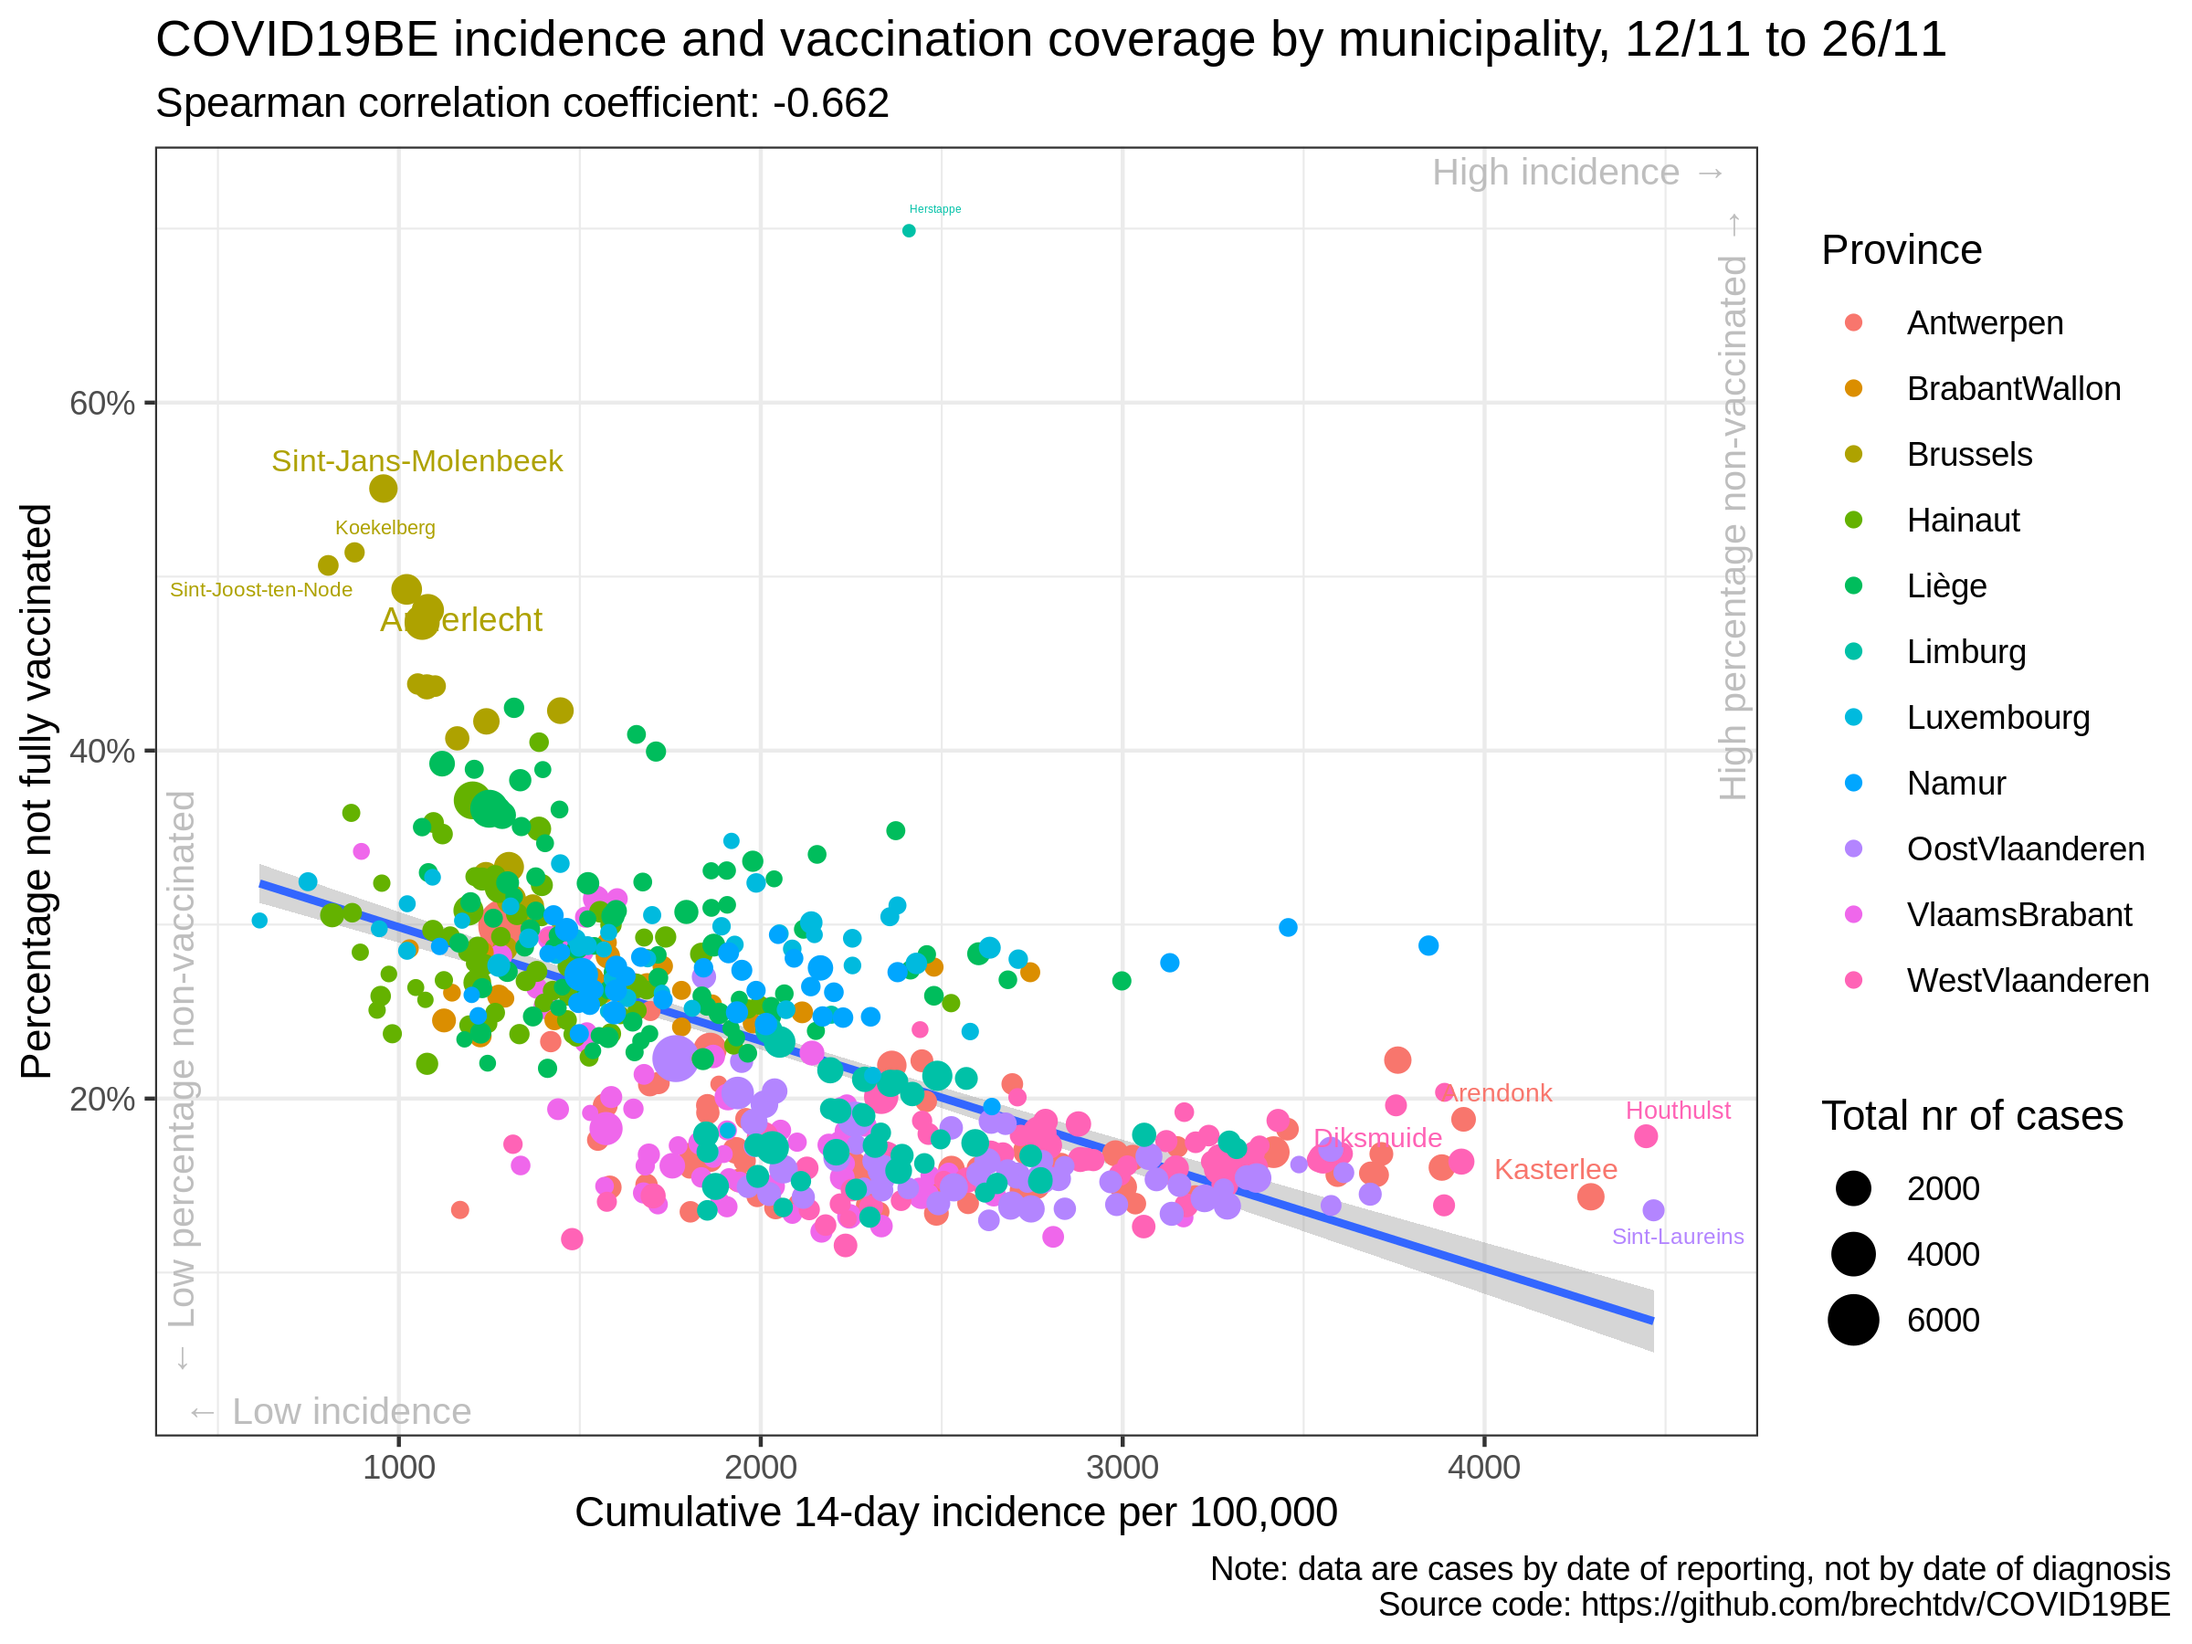
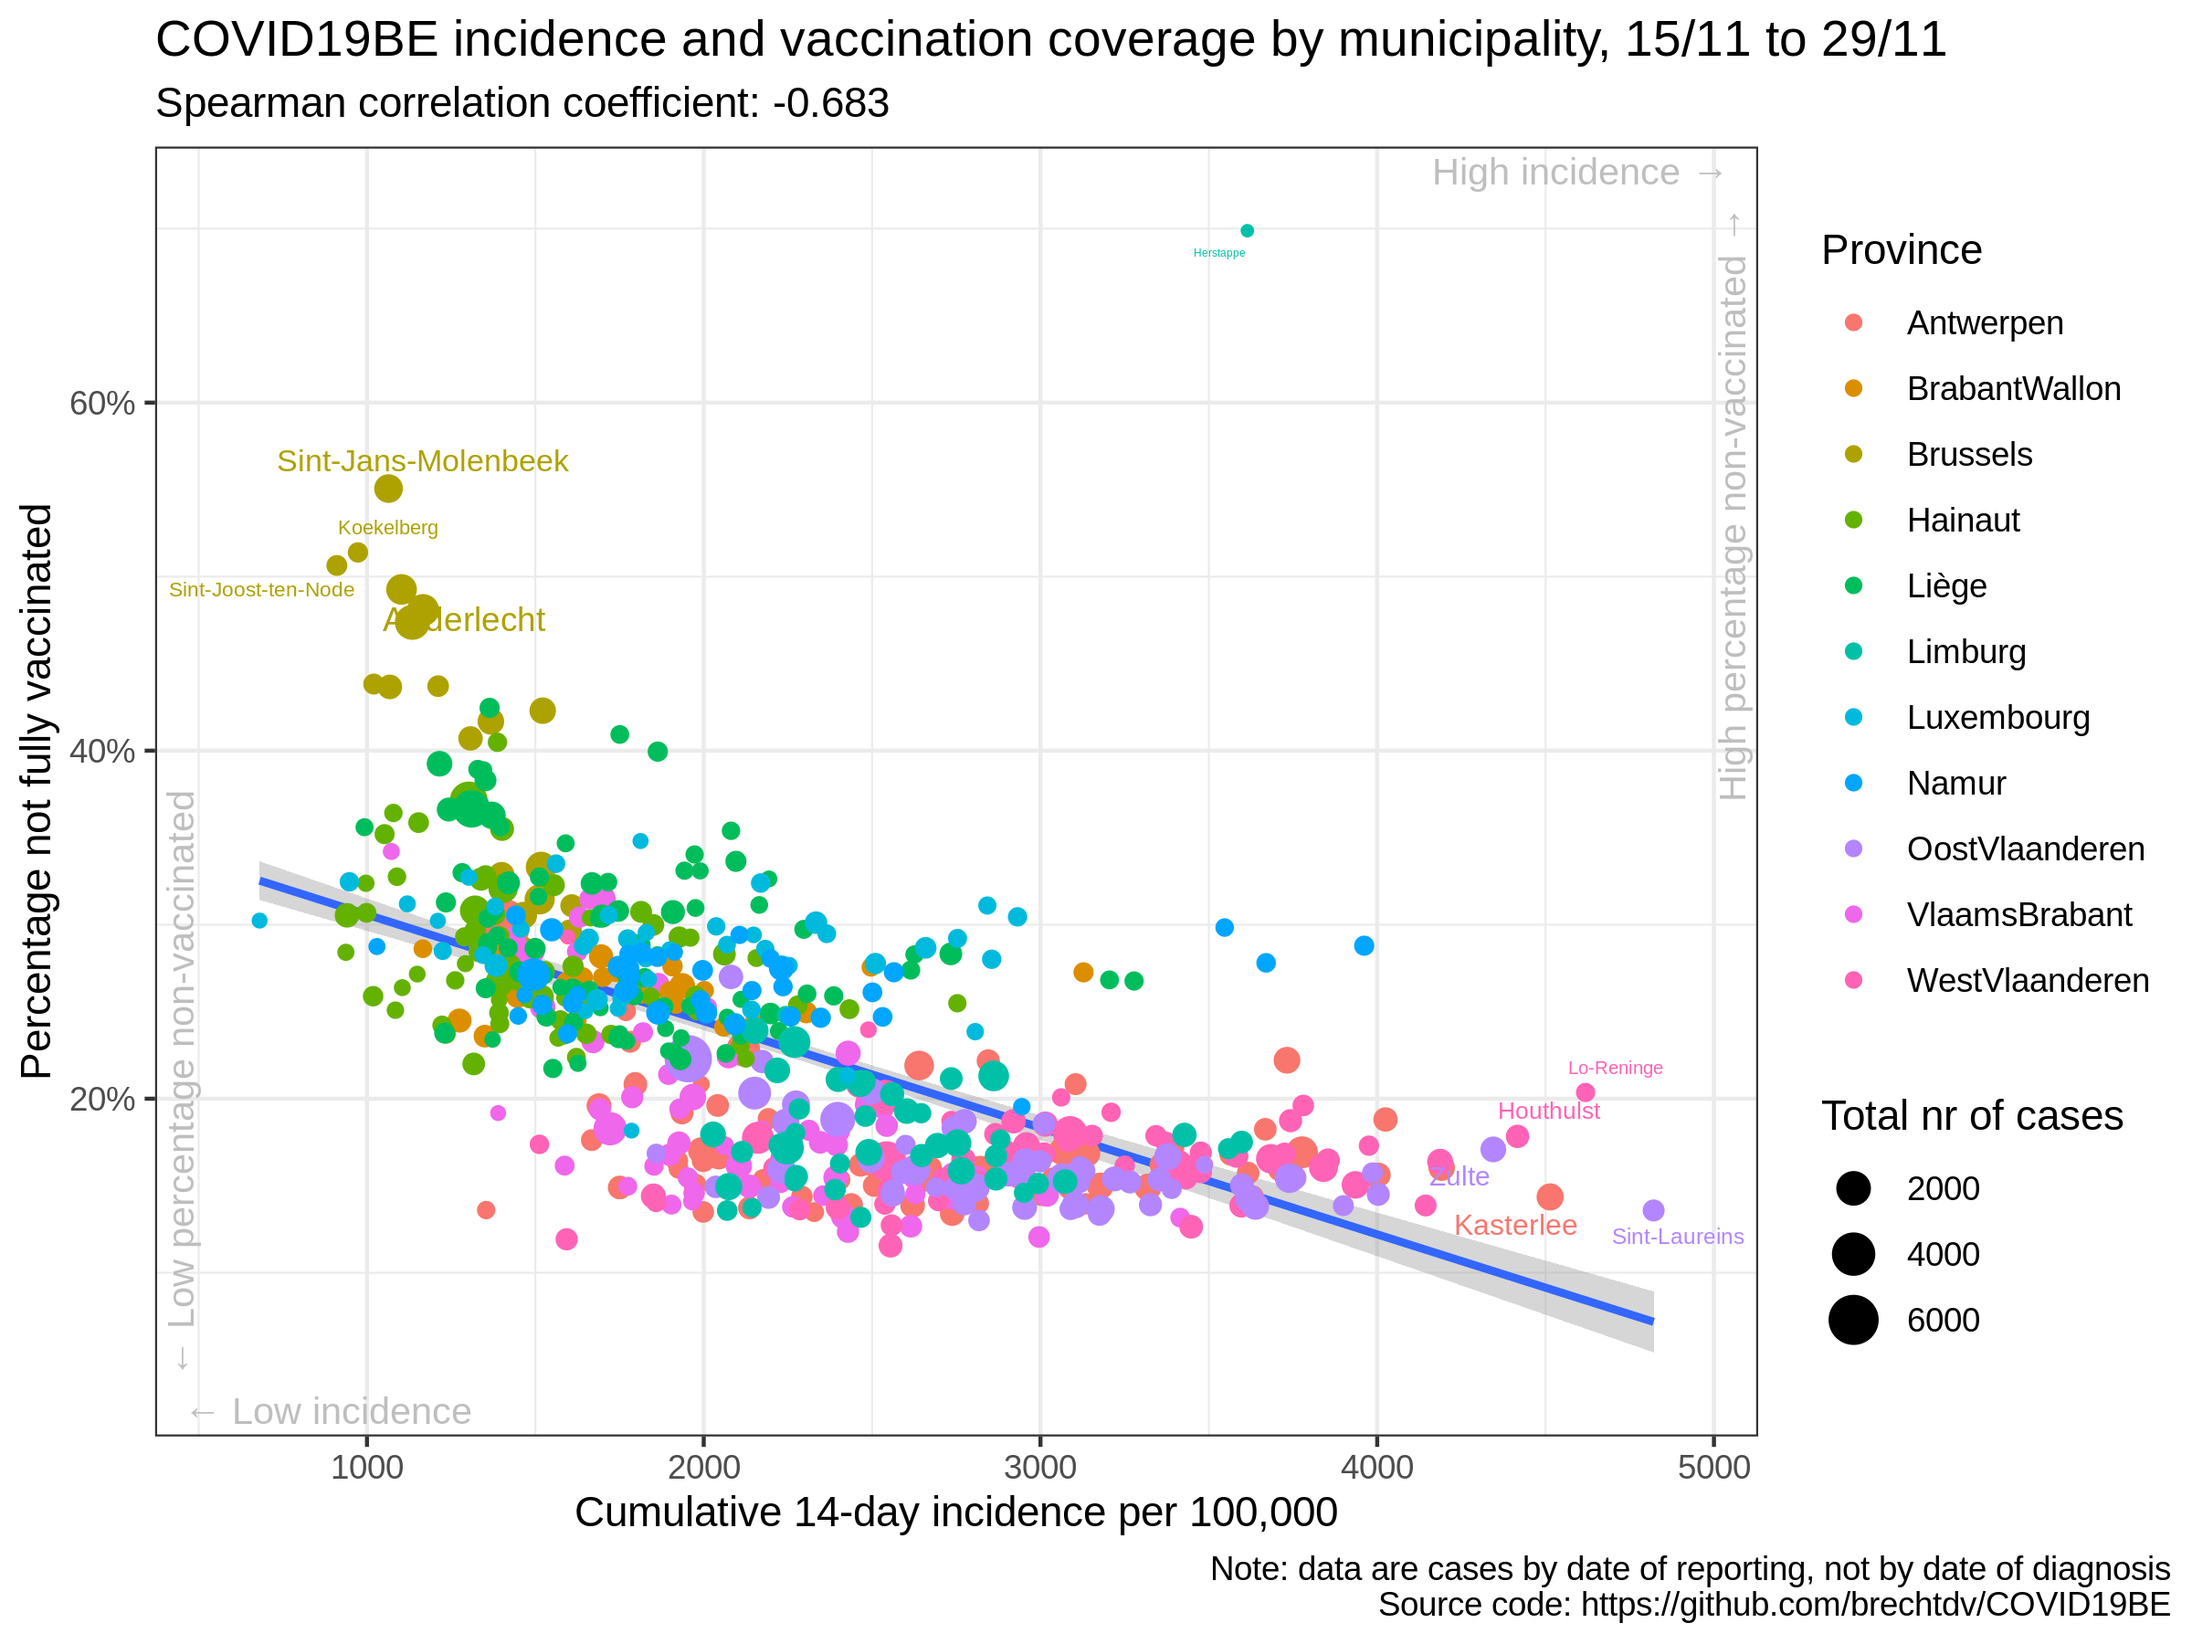
update situation

diff --git a/vaccination/README.md b/vaccination/README.md
@@ -13,18 +13,18 @@
 
 |                | estimate.rho | p.value |
 | :------------- | -----------: | ------: |
-| Antwerpen      |      \-0.209 |   0.085 |
-| BrabantWallon  |        0.007 |   0.974 |
-| Brussels       |      \-0.874 |   0.000 |
-| Hainaut        |      \-0.337 |   0.005 |
-| Liège          |      \-0.266 |   0.015 |
-| Limburg        |      \-0.024 |   0.882 |
-| Luxembourg     |      \-0.283 |   0.063 |
-| Namur          |      \-0.071 |   0.671 |
-| OostVlaanderen |      \-0.498 |   0.000 |
-| VlaamsBrabant  |      \-0.643 |   0.000 |
-| WestVlaanderen |        0.188 |   0.138 |
-| Belgium        |      \-0.662 |   0.000 |
+| Antwerpen      |      \-0.215 |   0.077 |
+| BrabantWallon  |      \-0.032 |   0.873 |
+| Brussels       |      \-0.842 |   0.000 |
+| Hainaut        |      \-0.398 |   0.001 |
+| Liège          |      \-0.361 |   0.001 |
+| Limburg        |      \-0.006 |   0.970 |
+| Luxembourg     |      \-0.216 |   0.158 |
+| Namur          |      \-0.055 |   0.742 |
+| OostVlaanderen |      \-0.486 |   0.000 |
+| VlaamsBrabant  |      \-0.669 |   0.000 |
+| WestVlaanderen |        0.126 |   0.322 |
+| Belgium        |      \-0.683 |   0.000 |
 
 ### Data source
 
